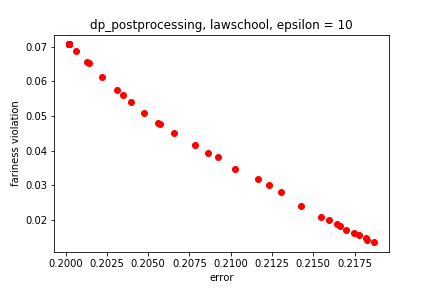
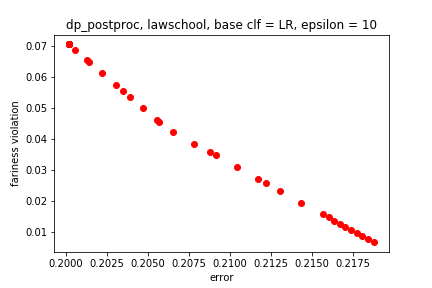
faster implementation postproc

diff --git a/dp_postproc.py b/dp_postproc.py
@@ -22,6 +22,11 @@ class dp_postproc:
         # unftilde: fairness violation
 
         m = len(Y)
+        rates = dp_postproc.rates(qhat)
+        fpr0 = rates[0]
+        fpr1 = rates[1]
+        tpr0 = rates[2]
+        tpr1 = rates[3]
         
         q_dp = qhat + np.random.laplace(scale= 2/(m*epsilon), size=8).reshape((2,2,2))
         minq_dp0 = np.min([q_dp[1,0,0] + q_dp[0,0,0], q_dp[1,1,0] + q_dp[0,1,0]]) 
@@ -50,9 +55,16 @@ class dp_postproc:
         p = np.array(sol['x']).reshape((2,2))
         p[p > 1] = 1
         p[p < 0] = 0
-        Ytilde = dp_postproc.postproc_label(Yhat, A, p)
-        errtilde = dp_postproc.error(Ytilde, Y)
-        unftilde = dp_postproc.unfairness(Ytilde, A, Y)
+        #Ytilde = dp_postproc.postproc_label(Yhat, A, p)
+        #errtilde = dp_postproc.error(Ytilde, Y)
+        #unftilde = dp_postproc.unfairness(Ytilde, A, Y)
+        errtilde = ( (qhat[0,0,0]-qhat[0,0,1])*p[0,0] + (qhat[0,1,0]-qhat[0,1,1])*p[0,1] + 
+                   (qhat[1,0,0]-qhat[1,0,1])*p[1,0] + (qhat[1,1,0]-qhat[1,1,1])*p[1,1] +
+                    np.sum(qhat[:,:,1])
+                   )
+        unfairness_fpr = abs(fpr1*p[1,1] + (1-fpr1)*p[0,1] - fpr0*p[1,0] - (1-fpr0)*p[0,0])
+        unfairness_tpr = abs(tpr1*p[1,1] + (1-tpr1)*p[0,1] - tpr0*p[1,0] - (1-tpr0)*p[0,0])
+        unftilde = max(unfairness_fpr, unfairness_tpr)
         return(errtilde, unftilde)
 
     def postproc_label(Yhat, A, p):

diff --git a/dp_postproc_experiments.py b/dp_postproc_experiments.py
@@ -17,13 +17,13 @@ import matplotlib.pyplot as plt
 # adult: 1
 X, A, Y = imp.clean_lawschool(1)
 base_clf = LR
-epsilon = 10
+epsilon = 5
 base_gamma_list = [0.001, 0.002, 0.003, 0.004, 0.005, 0.006, 0.007, 0.008,
             0.009, 0.01, 0.02, 0.03, 0.04, 0.05, 0.06, 0.07, 0.08, 0.09,
             0.1, 0.2, 0.4, 0.8, 1]
 gamma_list = sorted(set(base_gamma_list + list(np.linspace(0.01, 0.2, 51))))
 beta = 0.05
-num_rounds = 1
+num_rounds = 1000
 
 fitted_clf = base_clf(random_state=123).fit(X, Y)
 Yhat = fitted_clf.predict(X)
@@ -37,7 +37,6 @@ err = []
 unf = []
 
 for i in range(len(gamma_list)):
-    if i%10 == 0: print(i)
     for j in range(num_rounds):
         errtilde[i,j], unftilde[i,j] = dpalgo1.dp_postproc.eq_odds(Yhat, A, Y, qhat, epsilon, gamma_list[i], beta)
     err.append(np.mean(errtilde[i,errtilde[i,:] != -1]))
